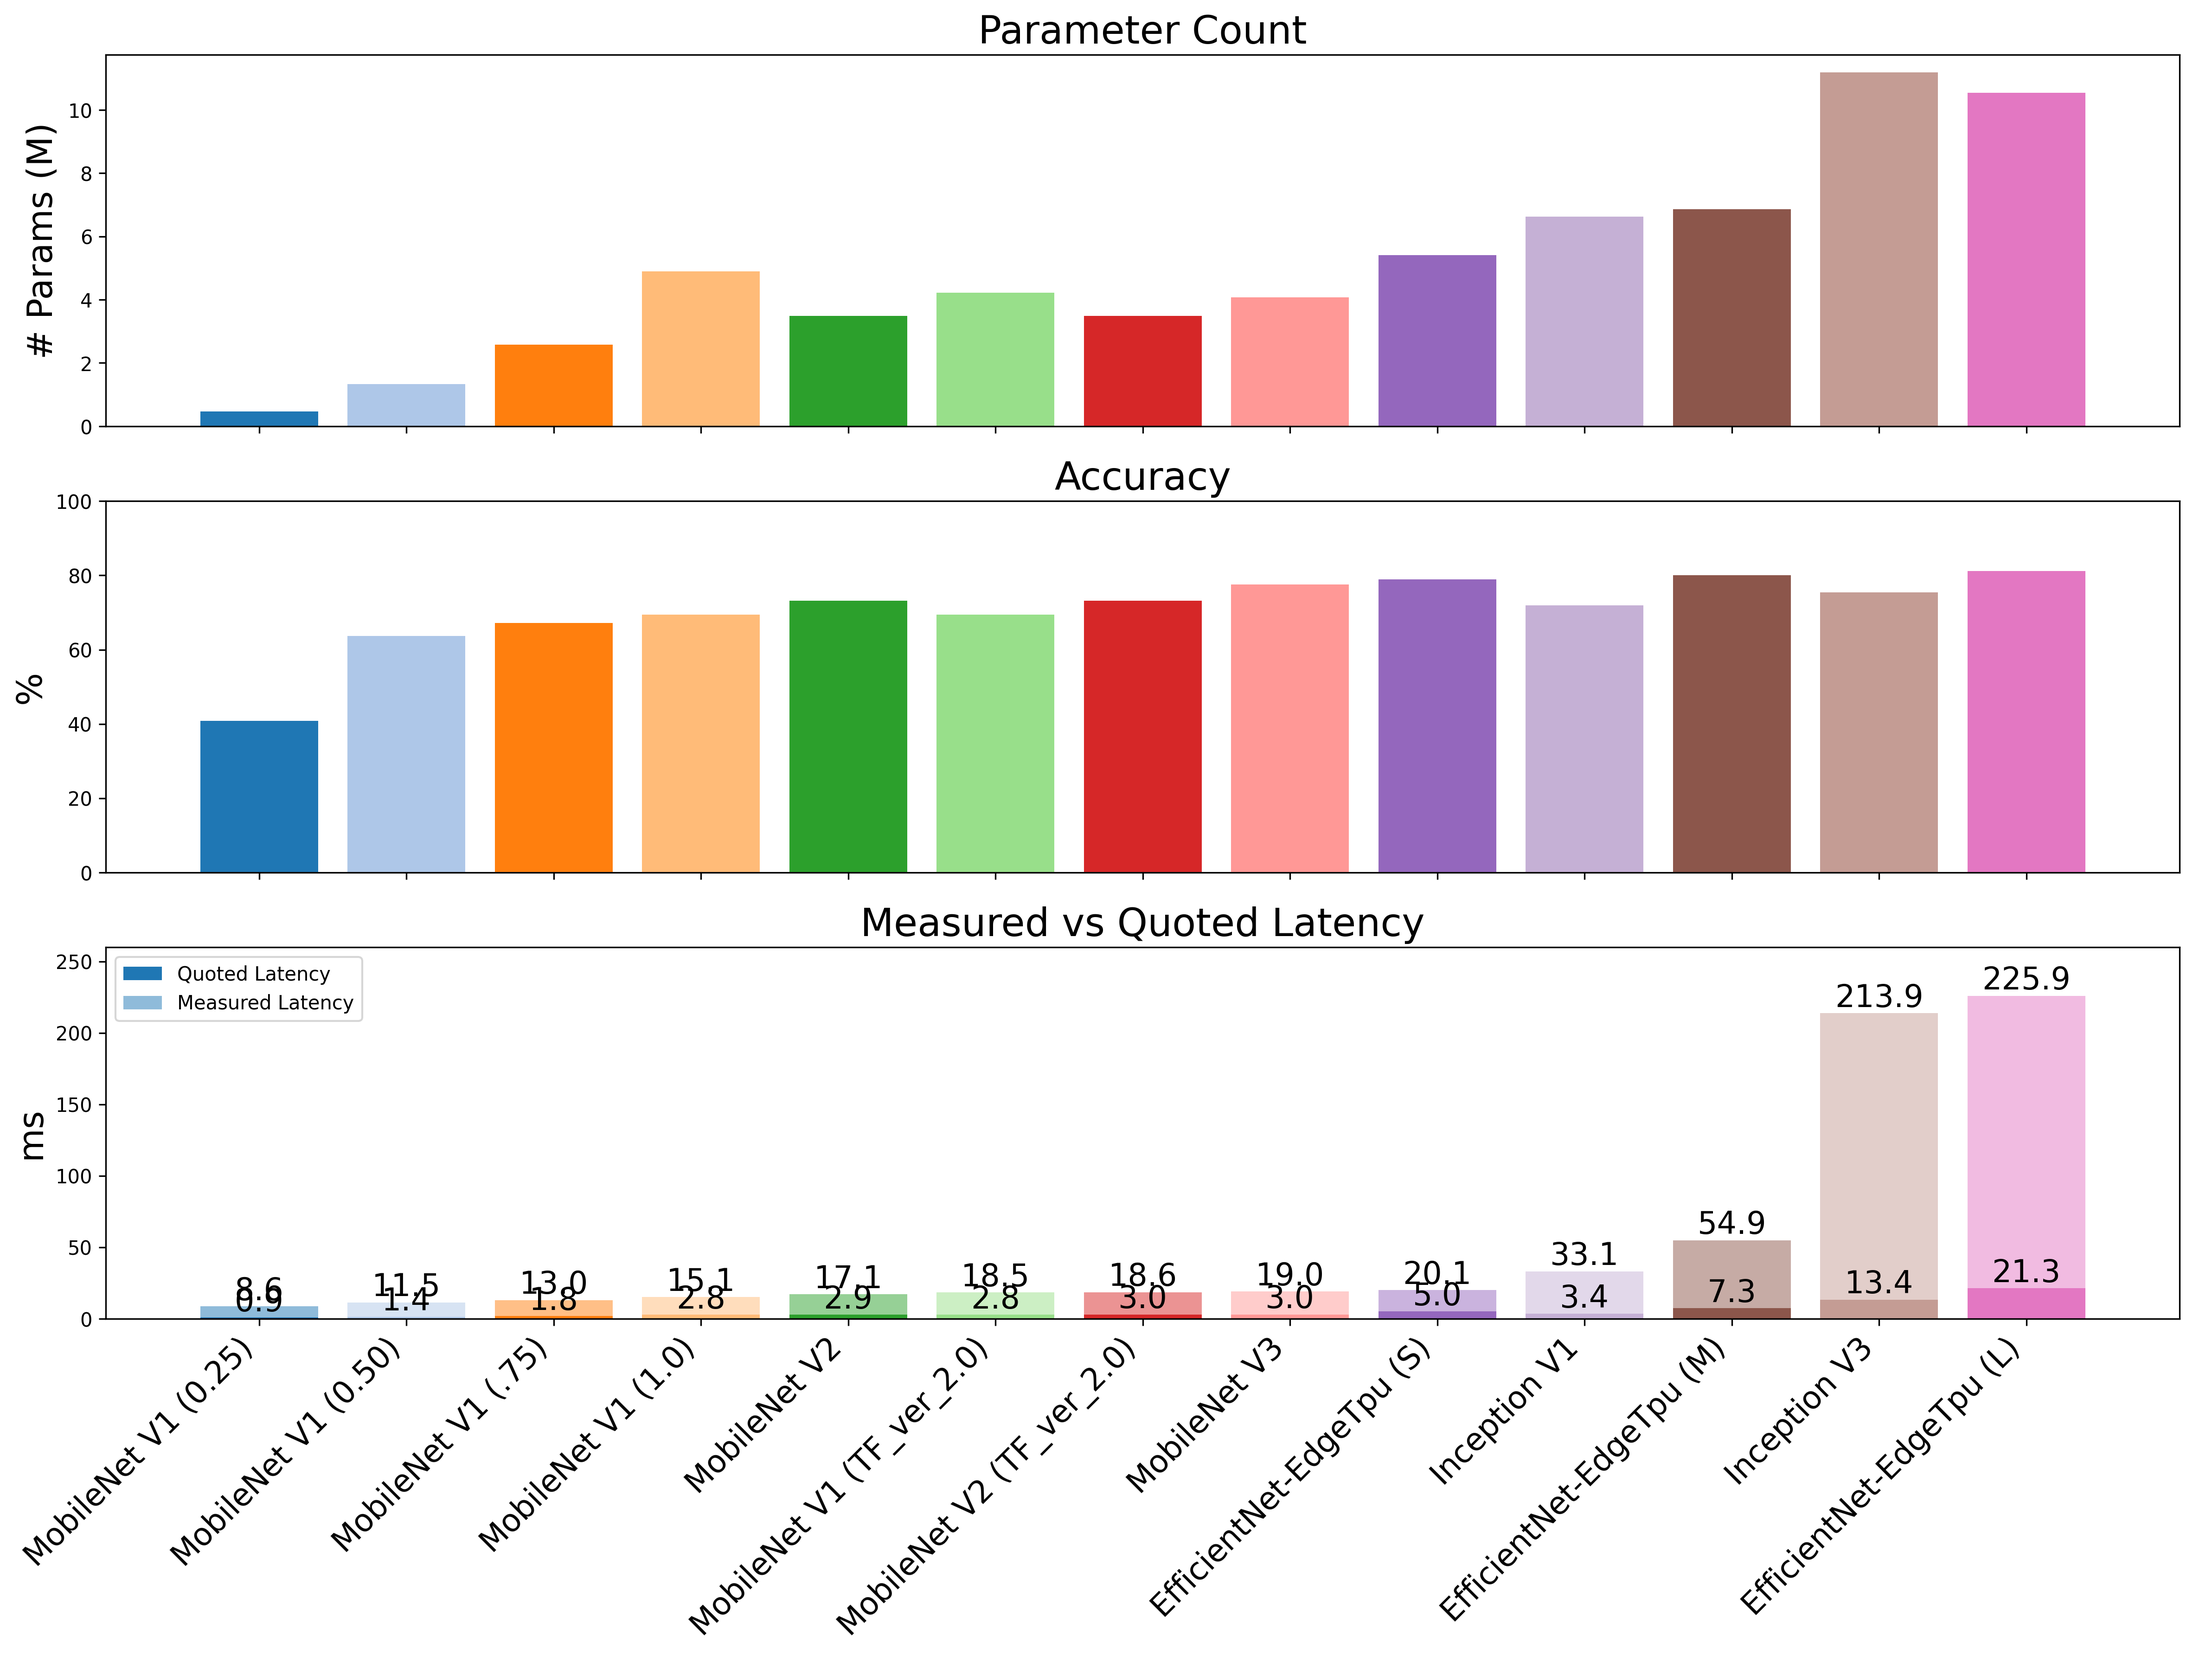
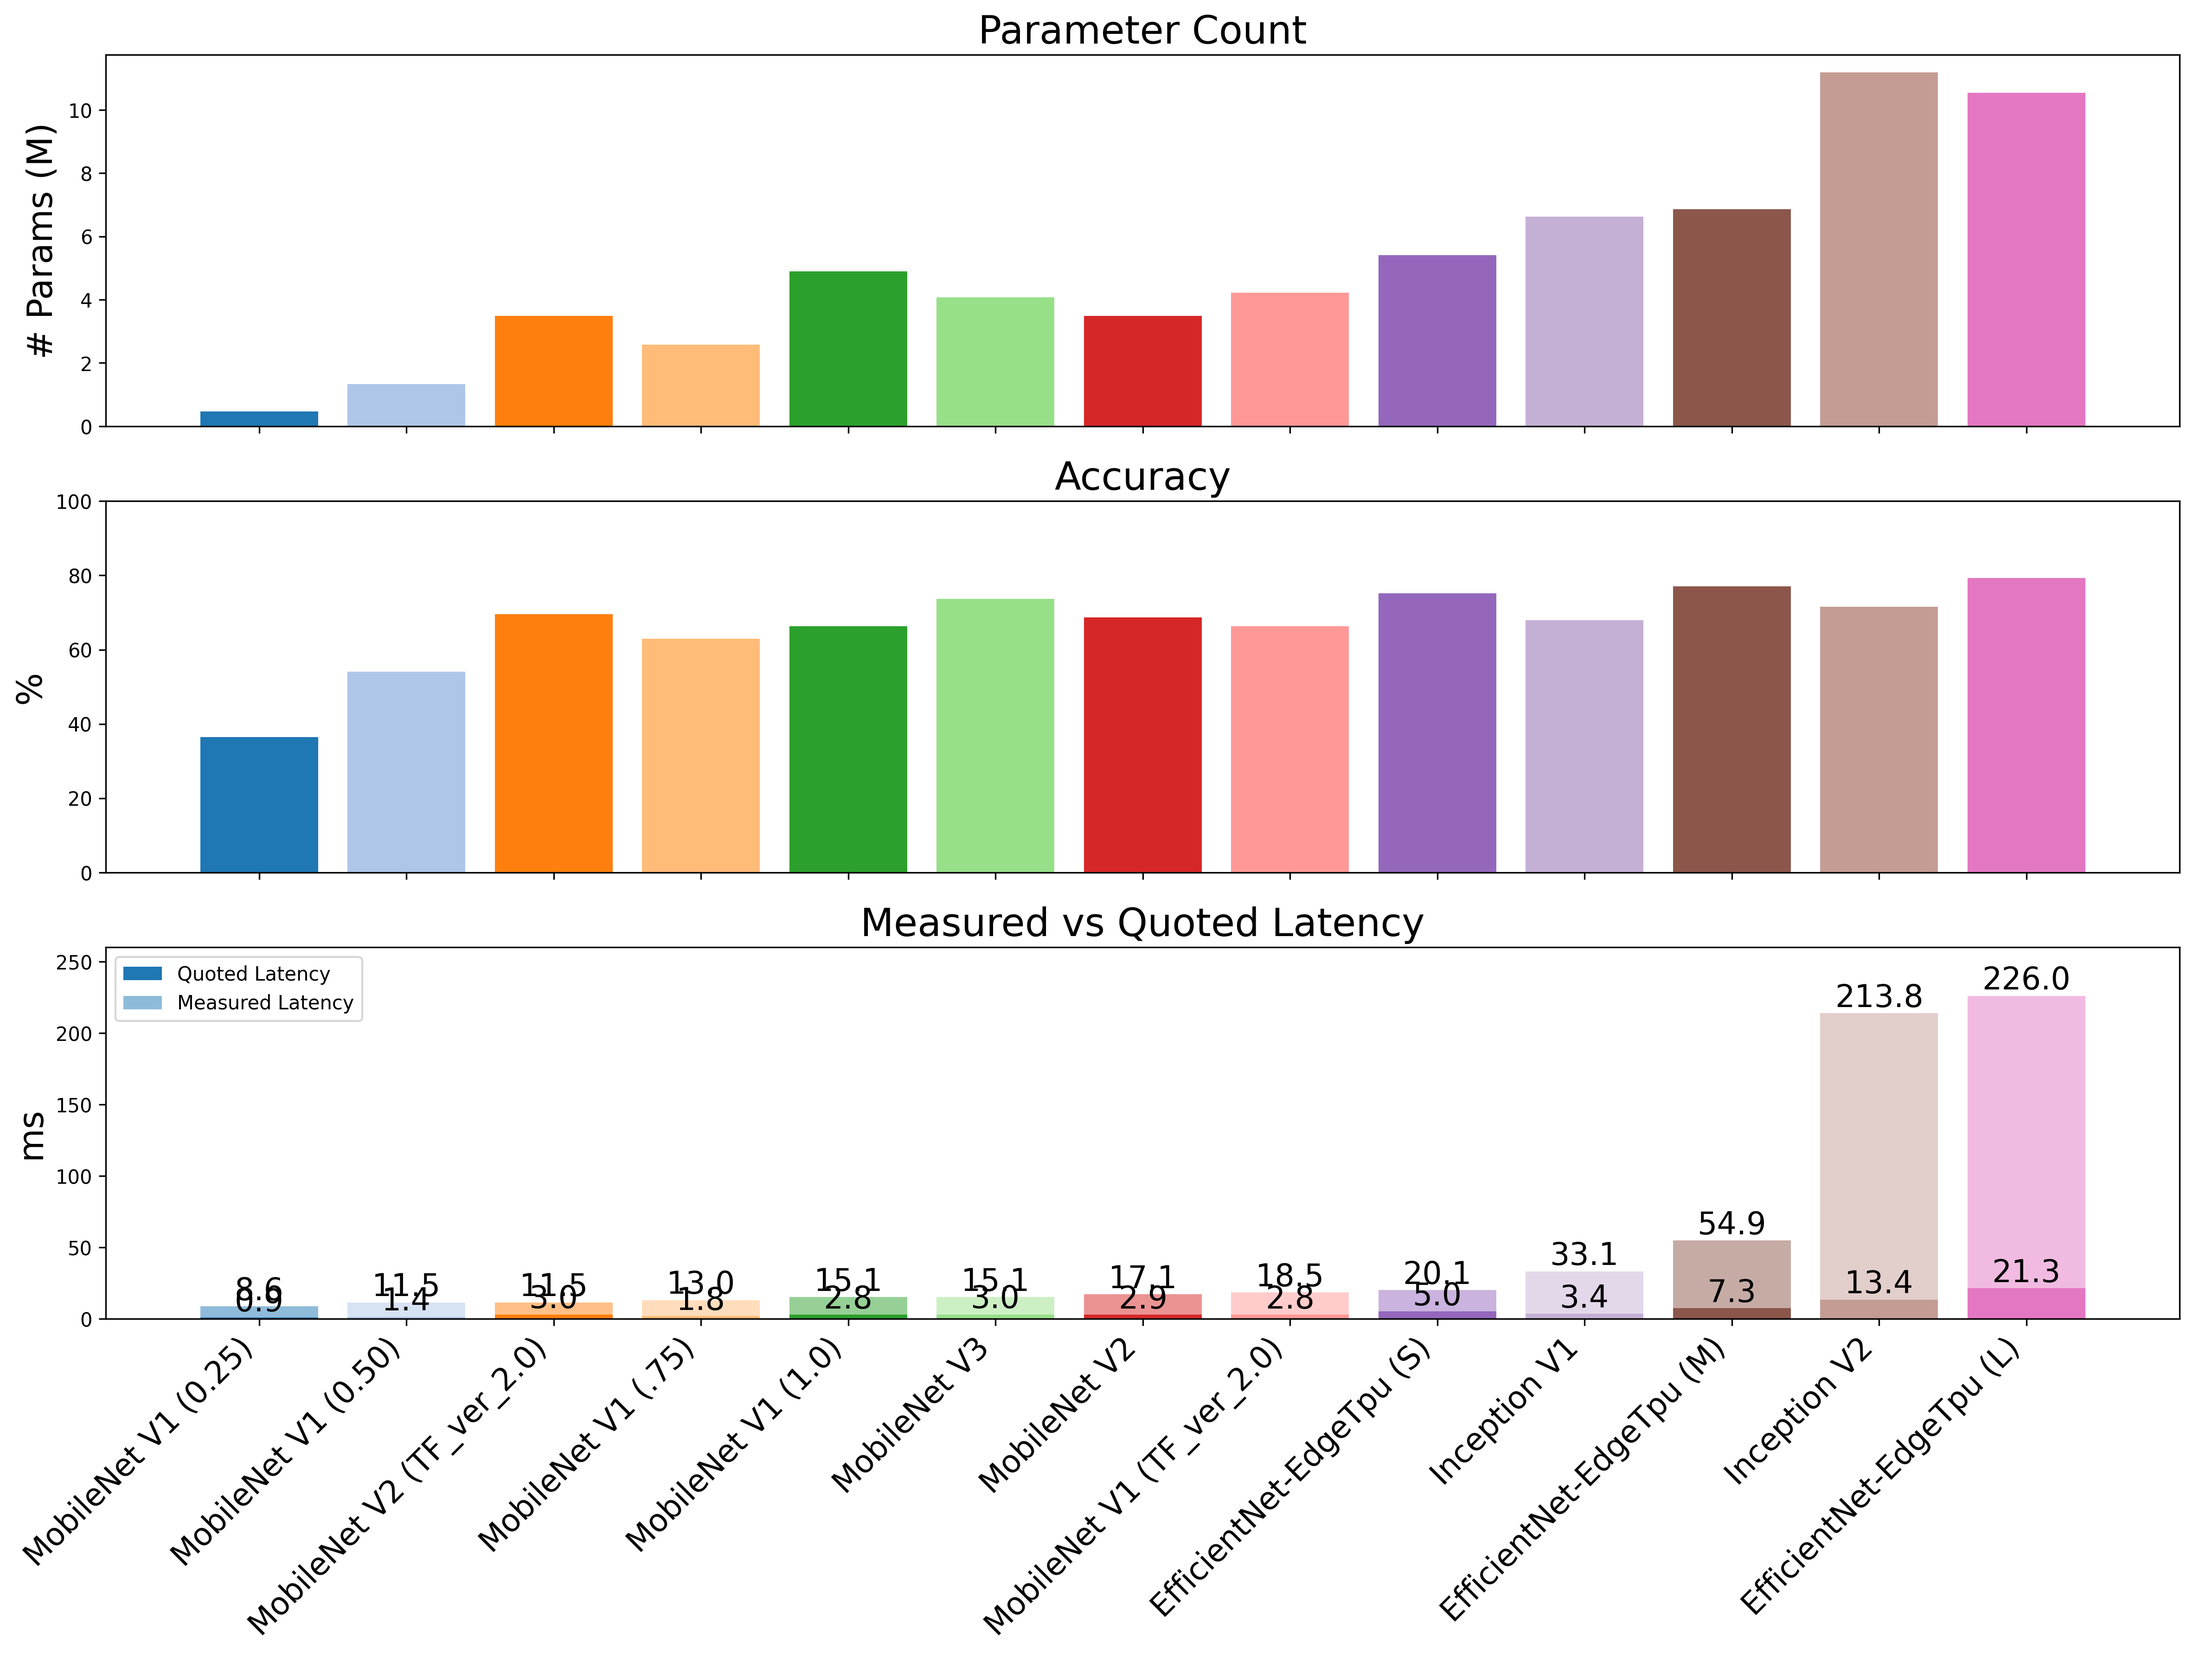
plots working again

diff --git a/scripts/model_stats_plotting.py b/scripts/model_stats_plotting.py
@@ -20,7 +20,10 @@ def inference_from_csvs(rundir):
     for root, dirs, files in top_dir.walk():
         for d in sorted(dirs):
             parsed = SaleaeOutputParsing(root / d)
-            inference_time_ms.append(parsed.avg_inference_time() * 1e3)
+            if parsed.avg_inference_time() is not None:
+                inference_time_ms.append(parsed.avg_inference_time() * 1e3)
+            else:
+                inference_time_ms.append(None)
     return inference_time_ms
 
 def collect_results(run_dir, psu_dc_volts=5.0, r_shunt=1.0):
@@ -37,17 +40,20 @@ def collect_results(run_dir, psu_dc_volts=5.0, r_shunt=1.0):
             parsed = SaleaeOutputParsing(subdir)
         except FileNotFoundError:
             continue
-        avg_time = parsed.avg_inference_time() * 1e3  # ms
-        mean_pwr, all_pwr, mean_energy, all_energy = parsed.avg_power_measurement(
-            psu_dc_volts, r_shunt
-        )
-        # only add if both digital+analog are present
-        if mean_pwr is not None:
-            results[subdir.name] = {
-                "inference_time_ms": avg_time,
-                "avg_power_mW": mean_pwr * 1e3,
-                "energy_mJ": mean_energy * 1e3,
-            }
+        if parsed.avg_inference_time() is not None:
+            avg_time = parsed.avg_inference_time() * 1e3  # ms
+            mean_pwr, all_pwr, mean_energy, all_energy = parsed.avg_power_measurement(
+                psu_dc_volts, r_shunt
+            )
+            # only add if both digital+analog are present
+            if mean_pwr is not None:
+                results[subdir.name] = {
+                    "inference_time_ms": avg_time,
+                    "avg_power_mW": mean_pwr * 1e3,
+                    "energy_mJ": mean_energy * 1e3,
+                }
+        else:
+            raise Exception("No average inference time found")
     return results
 
 ## Plot generation Functions ##
@@ -253,7 +259,7 @@ class ModelStatsPlotting:
             self.plotdir+"/img_class_combined_trimmed.png"
         )
 
-    def power_inf_runs(self, df, results_dir : str, model_category : str = None, run_names : list = None,  filename=None):
+    def power_inf_runs(self, df, results_dir : str, model_category = None, run_names = None,  filename=None):
         """
         4-row figure ordered by ascending Energy per Inference (mJ):
         1) Energy per inference (mJ)
@@ -264,11 +270,31 @@ class ModelStatsPlotting:
         Returns the sorted dataframe used for plotting.
         """
 
-        if not model_category:
+        if model_category is None:
             sheet_name = "Img_Class"
         elif model_category not in ["Img_Class","Obj_Det","Segmentation","Audio_Classification"]:
-            raise ValueError(f"Model Category {model_category} does not exist. Choose a valid model category: Img_Class,Obj_Det,Segmentation,Audio_Classification")
-
+            sheet_name = model_category
+        else:
+            raise ValueError(
+            f"Model Category {model_category} does not exist. "
+            "Choose from: Img_Class, Obj_Det, Segmentation, Audio_Classification"
+            )
+        if run_names is None:
+            run_names=[ # all image classification models
+                "EfficientNet-EdgeTpu (L)", 
+                "EfficientNet-EdgeTpu (M)",
+                "EfficientNet-EdgeTpu (S)",
+                "Inception V1",
+                "Inception V2",
+                "MobileNet V1 (0.25)",
+                "MobileNet V1 (0.50)",
+                "MobileNet V1 (.75)",
+                "MobileNet V1 (1.0)",
+                "MobileNet V1 (TF_ver_2.0)",
+                "MobileNet V2",
+                "MobileNet V2 (TF_ver_2.0)",
+                "MobileNet V3"
+                ]
         ## Read model parameters from excel sheet and test results from csvs in the results_dir
         results_dict = collect_results(results_dir)
         df = pd.read_excel(self.sheet, sheet_name)
@@ -452,26 +478,36 @@ class ModelStatsPlotting:
 
 
 if __name__ == "__main__":
-    plots = ModelStatsPlotting("scripts/Model_Stats.xlsx","plots/")
+    plots = ModelStatsPlotting("scripts/Model_Stats.xlsx", "plots/")
     plots.img_class_plt()
-    #plots.obj_det_plt()
-    #plots.segmentation_plt() # hiding in libs currently 090825
+    plots.obj_det_plt()
+    # plots.segmentation_plt()
 
     # Select the runs you want to visualize
-    run_names = ["efficientnet_M", "efficientnet_M_delay", "efficientnet_S", "mobilenetv3"]
+    run_names = ["EfficientNet-EdgeTpu (M)", "EfficientNet-EdgeTpu (S)", "Inception V3", "MobileNet V1 (0.25)"]
 
-    # Read the dataframe you want to merge against
-    
-    print(df["Model name"].tolist())
-    # Call the standalone function
-    img_class_power_runs(
-        df=df,
-        results_dict=results_dict,
-        run_names=[
-        "EfficientNet-EdgeTpu (M)",
-        "EfficientNet-EdgeTpu (S)",
-        "Inception V3",
-        "MobileNet V1 (0.25)"
-        ],
+    # Call the method that already merges Excel + Saleae results
+    subset = plots.power_inf_runs(
+        df=None,  # will get loaded inside the method
+        results_dir="captures/IMG_CLASS_NEW",
+        model_category="Img_Class",
+        run_names=run_names,
         filename="plots/img_class_power_runs.png"
     )
+
+    print(subset["Model name"].tolist())
+
+
+# run_names=["EfficientNet-EdgeTpu (L)",
+#     "EfficientNet-EdgeTpu (M)",
+#     "EfficientNet-EdgeTpu (S)",
+#     "Inception V1",
+#     "Inception V2",
+#     "MobileNet V1 (0.25)",
+#     "MobileNet V1 (0.50)",
+#     "MobileNet V1 (.75)",
+#     "MobileNet V1 (1.0)",
+#     "MobileNet V1 (TF_ver_2.0)",
+#     "MobileNet V2",
+#     "MobileNet V2 (TF_ver_2.0)",
+#     "MobileNet V3"]

diff --git a/scripts/saleae_parsing.py b/scripts/saleae_parsing.py
@@ -24,14 +24,16 @@ class SaleaeOutputParsing:
 
         if not digital_files:
             raise FileNotFoundError("No digital.csv file found")
-
+        self.idle_power = None
         self.digital_file = digital_files[0]
         self.analog_file = analog_files[0] if analog_files else None
 
         # load
         self.t_digital, self.d, self.t_analog, self.v1, self.v2 = self.load_data()
+        # find valid GPIO high times
         self.rising, self.falling = self.find_edges(self.t_digital, self.d)
-        if not self.rising.any() and not self.rising.any():
+
+        if self.rising is None or self.falling is None:
             self.inf_times = None
         else:
             self.inf_times = self.falling - self.rising
@@ -55,7 +57,7 @@ class SaleaeOutputParsing:
             
         return t_digital, d, t_analog, v1, v2
 
-    def find_edges(self, t : np.array, d : np.array, min_pulse_width=1e-3):
+    def find_edges(self, t : np.ndarray, d : np.ndarray, min_pulse_width=1e-3):
         # find raw transitions
         rising_idx = np.where((d[1:] == 1) & (d[:-1] == 0))[0] + 1
         falling_idx = np.where((d[1:] == 0) & (d[:-1] == 1))[0] + 1
@@ -97,15 +99,19 @@ class SaleaeOutputParsing:
 
     def avg_inference_time(self):
         """Return average inference time in seconds"""
-        if not self.inf_times:
+        if self.inf_times is None or len(self.inf_times)==0:
             return None
         else:
             return np.mean(self.inf_times)
 
-    def avg_power_measurement(self, psu_dc_volts, r_shunt):
+    def avg_power_measurement(self, psu_dc_volts:float=5.0, r_shunt:float=1.0):
         """Compute average power and energy during inference windows"""
-        if not self.v1.any():
+
+        if self.v1 is None or self.v2 is None or self.t_analog is None:
             raise Exception("No analog file output")
+        if len(self.v1) == 0 or len(self.v2) == 0 or len(self.t_analog) == 0:
+            raise Exception("Analog arrays empty")
+
         
         v_shunt = self.v1 - self.v2   # voltage across resistor
         v_device = psu_dc_volts - v_shunt
@@ -139,18 +145,36 @@ class SaleaeOutputParsing:
 
         return mean_power, np.array(avg_powers), mean_energy, np.array(energies)
 
-
 if __name__ == "__main__":
     r_shunt = 0.1  # ohms
     parser = SaleaeOutputParsing()  # defaults to cwd
 
     mean_pwr, all_pwr, mean_energy, all_energy = parser.avg_power_measurement(5, r_shunt)
 
-    print(f"Average inference time: {parser.avg_inference_time()*1e3:.2f} ms")
-    print(f"Average power: {mean_pwr*1e3:.2f} mW")
-    print(f"Average energy per inference: {mean_energy*1e3:.2f} mJ")
-    print(f"Number of inferences: {len(parser.inf_times)}")
+    inf_time = parser.avg_inference_time()
+    if inf_time is not None:
+        print(f"Average inference time: {inf_time*1e3:.2f} ms")
+    else:
+        print("Average inference time: N/A")
+
+    if mean_pwr is not None:
+        print(f"Average power: {mean_pwr*1e3:.2f} mW")
+    else:
+        print("Average power: N/A")
+
+    if mean_energy is not None:
+        print(f"Average energy per inference: {mean_energy*1e3:.2f} mJ")
+    else:
+        print("Average energy per inference: N/A")
+
+    if parser.inf_times is not None:
+        print(f"Number of inferences: {len(parser.inf_times)}")
+    else:
+        print("Number of inferences: 0")
 
     p2 = SaleaeOutputParsing("/home/jack/Coral-TPU-Characterization/captures/IMG_CLASS_10s_doublearena/efficientnet-edgetpu-L_quant_edgetpu_2025-09-10_13-30-03/saleae_raw")
-    print(f"Average inference time: {p2.avg_inference_time()*1e3:.2f} ms")
-    
+    inf_time2 = p2.avg_inference_time()
+    if inf_time2 is not None:
+        print(f"Average inference time: {inf_time2*1e3:.2f} ms")
+    else:
+        print("Average inference time: N/A")
